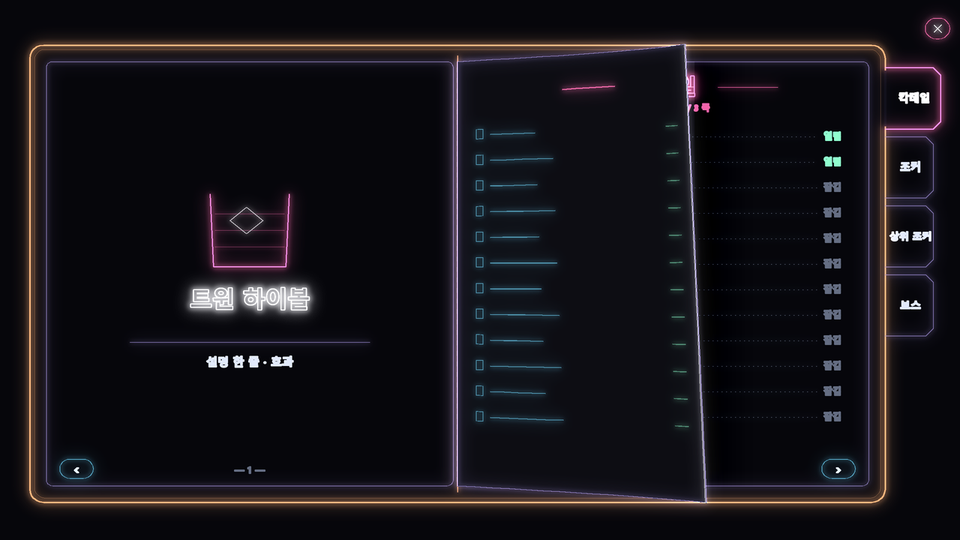
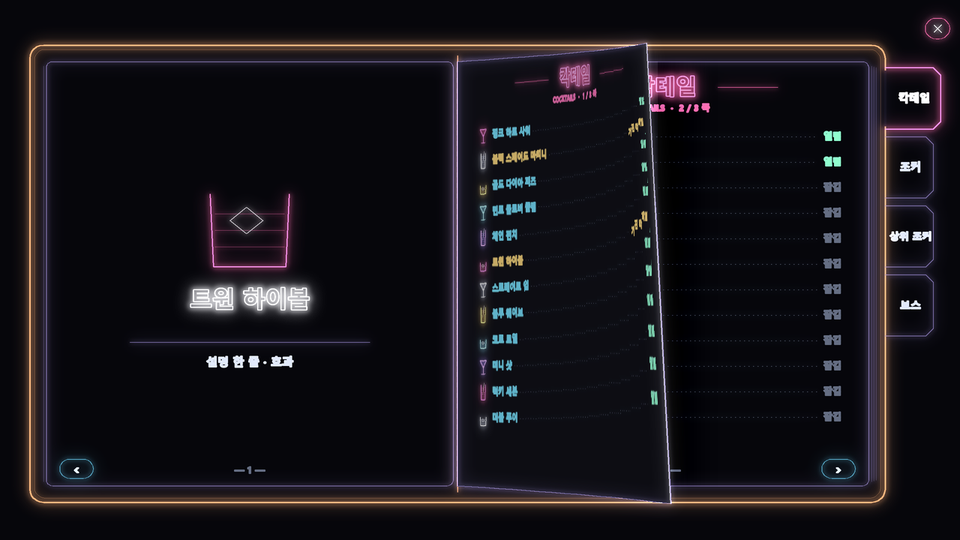
시안: 도감 책 넘기기 — 장에 쪽 내용 휘어 입힘, 모서리 들림, 쪽 두께, 책등 빛, 잔상

Changed region(s): [[0.5312, 0.0593, 0.75, 0.9481], [0.5, 0.237, 0.5938, 0.8], [0.9062, 0.1185, 0.9375, 0.8889]]

diff --git a/tools/neon/codex_flip_mock.py b/tools/neon/codex_flip_mock.py
@@ -116,28 +116,50 @@ def subdiv(pts, n=8):
     return out
 
 
-def draw_sheet(img, u):
-    P = sheet_map(u)
+def solve8(A, b):
+    """8×8 가우스 소거 (PIL PERSPECTIVE 계수 구하기)"""
+    n = 8
+    M = [row[:] + [b[i]] for i, row in enumerate(A)]
+    for c in range(n):
+        p = max(range(c, n), key=lambda r: abs(M[r][c]))
+        M[c], M[p] = M[p], M[c]
+        for r in range(n):
+            if r != c and M[c][c] != 0:
+                f = M[r][c] / M[c][c]
+                M[r] = [a - f * bb for a, bb in zip(M[r], M[c])]
+    return [M[i][n] / M[i][i] for i in range(n)]
+
+
+def persp(dst, src):
+    """출력 점 dst[i] → 입력 점 src[i] 로 가는 PIL PERSPECTIVE 계수"""
+    A, b = [], []
+    for (x, y), (X, Y) in zip(dst, src):
+        A.append([x, y, 1, 0, 0, 0, -X * x, -X * y]); b.append(X)
+        A.append([0, 0, 0, x, y, 1, -Y * x, -Y * y]); b.append(Y)
+    return solve8(A, b)
+
+
+def content_img(fn):
+    """쪽 내용만 (책 없이) 그린 그림 — 넘어가는 장에 입힌다"""
     M = Sign(0.8); M.small_glow = 0.0
+    fn[0](M, *fn[1:])
+    im = M.draw()
+    return ImageChops.subtract(im, Image.new('RGB', im.size, (6, 6, 11)))
+
+
+def draw_sheet(img, u, front, back, ghost=None):
+    """front / back: content_img (앞면 = 넘어가는 오른쪽 쪽, 뒷면 = 새 왼쪽 쪽). 장을 띠 18개로 나눠 띠마다 원근으로 입힌다 (게임: 그림 굽고 격자 꼭짓점으로 찍기)"""
+    P = sheet_map(u)
     side = 'front' if u < 0.5 else 'back'
+    src = front if side == 'front' else back
     ca = abs(math.cos(math.pi * u))
-    face = 0.35 + 0.65 * ca  # 눕힌 정도로 면 밝기
-    for pts, c, wd, b in sheet_lines(side):
-        if side == 'back': pts = [(LW - x, y) for x, y in pts]
-        M.ln([P(x, y)[0] for x, y in subdiv(pts, 4)], c, wd, b * face)
-    # 테두리 (휜 모양) + 바깥 끝 흰 빛줄
-    qs = [LW * k / 16 for k in range(17)]
+    face = 0.35 + 0.65 * ca
+    s = math.sin(math.pi * u)
+    qs = [LW * k / 18 for k in range(19)]
     ys = [TOP + (BOT - TOP) * k / 16 for k in range(17)]
     outline = [P(q, TOP)[0] for q in qs] + [P(LW, y)[0] for y in ys] + [P(q, BOT)[0] for q in reversed(qs)] + [P(0, y)[0] for y in reversed(ys)]
-    M.ln(outline, LAV, 1.2, 0.5 + 0.4 * face)
-    M.ln([P(LW - 3, y)[0] for y in ys], WHITE, 1.0, 0.25 + 0.45 * math.sin(math.pi * u))
-    # 덮기 (장 면 색: 눕힌 정도로 조금 밝게) → 그림자 → 장 그림
-    d = ImageDraw.Draw(img)
-    shade = int(8 + 7 * face)
-    # 그림자: 장 아래 드러나는 쪽, 장 쪽으로 진해짐
-    s = math.sin(math.pi * u)
-    sh = Image.new('RGB', img.size, (0, 0, 0))
-    sd = ImageDraw.Draw(sh)
+    # 그림자 (장 아래 드러나는 쪽)
+    sh = Image.new('RGB', img.size, (0, 0, 0)); sd = ImageDraw.Draw(sh)
     edge_x = P(LW, (TOP + BOT) / 2)[0][0]
     for k in range(40):
         x = edge_x + (k if u < 0.5 else -k) * 2.5
@@ -145,27 +167,65 @@ def draw_sheet(img, u):
         v = int(26 * s * (1 - k / 40) ** 2)
         sd.line([(x, TOP), (x, BOT)], fill=(v, v, v), width=3)
     img = ImageChops.subtract(img, sh)
-    d = ImageDraw.Draw(img)
-    d.polygon(outline, fill=(shade, shade, shade + 6))
-    lay = M.draw()
-    return ImageChops.add(img, ImageChops.subtract(lay, Image.new('RGB', lay.size, (6, 6, 11))))
+    # 장 면 채움
+    shade = int(8 + 7 * face)
+    ImageDraw.Draw(img).polygon(outline, fill=(shade, shade, shade + 6))
+    # 쪽 내용 입히기 (띠마다 원근 변환, 면 밝기로 어둡게)
+    lay = Image.new('RGB', img.size, (0, 0, 0))
+    for q0, q1 in zip(qs, qs[1:]):
+        d4 = [P(q0, TOP)[0], P(q1, TOP)[0], P(q1, BOT)[0], P(q0, BOT)[0]]
+        if side == 'front': s4 = [(CB.SPX + q0, TOP), (CB.SPX + q1, TOP), (CB.SPX + q1, BOT), (CB.SPX + q0, BOT)]
+        else: s4 = [(CB.SPX - q0, TOP), (CB.SPX - q1, TOP), (CB.SPX - q1, BOT), (CB.SPX - q0, BOT)]
+        x0, y0 = int(min(p[0] for p in d4)) - 1, int(min(p[1] for p in d4)) - 1
+        x1, y1 = int(max(p[0] for p in d4)) + 2, int(max(p[1] for p in d4)) + 2
+        if x1 - x0 < 2: continue
+        co = persp([(x - x0, y - y0) for x, y in d4], s4)
+        part = src.transform((x1 - x0, y1 - y0), Image.PERSPECTIVE, co, Image.BILINEAR)
+        mask = Image.new('L', part.size, 0)
+        ImageDraw.Draw(mask).polygon([(x - x0, y - y0) for x, y in d4], fill=255)
+        lay.paste(part, (x0, y0), mask)
+    lay = lay.point(lambda v: int(v * face))
+    img = ImageChops.add(img, lay)
+    # 테두리 · 접힌 끝 빛줄 · 잔상
+    M = Sign(0.8); M.small_glow = 0.0
+    M.ln(outline, LAV, 1.2, 0.5 + 0.4 * face)
+    M.ln([P(LW - 3, y)[0] for y in ys], WHITE, 1.0, 0.25 + 0.45 * s)
+    if ghost is not None:  # 빠르게 넘길 때: 바로 앞 장면의 바깥 끝을 옅게 (잔상)
+        G = sheet_map(ghost)
+        M.ln([G(LW, y)[0] for y in ys], LAV, 1.0, 0.3)
+    l2 = M.draw()
+    return ImageChops.add(img, ImageChops.subtract(l2, Image.new('RGB', l2.size, (6, 6, 11))))
+
+
+def stack_edges(M, page, pages=3):
+    """쪽 두께: 책 바깥 테 안쪽에 얇은 선. 왼쪽은 넘긴 쪽 수만큼, 오른쪽은 남은 쪽만큼"""
+    nl, nr = 1 + page, 1 + (pages - 1 - page)
+    for k in range(nl): M.ln([(LX - 4 - k * 3, TOP + 6 + k), (LX - 4 - k * 3, BOT - 6 - k)], LAV, 0.8, 0.35)
+    for k in range(nr): M.ln([(RX + LW + 4 + k * 3, TOP + 6 + k), (RX + LW + 4 + k * 3, BOT - 6 - k)], LAV, 0.8, 0.35)
 
 
 # ---------------------------------------------------------------- 한 장면
-def render(tab, left, right, sheets=(), text=1.0, press=0.0, ext=None):
-    """text: 쪽 글자 보임 정도 (넘어가는 동안 0, 다 넘어가면 0 → 1)"""
-    def layer(with_text):
-        M = Sign(0.8); M.small_glow = 0.0
-        CB.book(M, active=tab, ext=ext)
-        if with_text:
-            left[0](M, *left[1:])
-            right[0](M, *right[1:])
-        CB.footer(M, press)
-        return M.draw()
-    img = layer(True) if text >= 1 else Image.blend(layer(False), layer(True), text) if text > 0 else layer(False)
-    for u in sheets:
-        if 0 < u < 1: img = draw_sheet(img, u)
+def render(tab, left, right, sheets=(), press=0.0, ext=None, page=0, spine=0.0, corner=0.0, cont=None):
+    """sheets: [(u, 앞면 그림, 뒷면 그림, 잔상 u)], spine: 책등 빛 (내려앉을 때 통), corner: › 위 마우스 = 모서리 살짝 들림"""
+    M = Sign(0.8); M.small_glow = 0.0
+    CB.book(M, active=tab, ext=ext)
+    stack_edges(M, page)
+    left[0](M, *left[1:])
+    right[0](M, *right[1:])
+    CB.footer(M, press)
+    if spine > 0: M.ln([(CB.SPX, TOP), (CB.SPX, BOT)], WHITE, 1.4, spine)
+    img = M.draw()
+    if corner > 0 and cont is not None: img = draw_sheet(img, corner, cont, cont)
+    for u, fr, bk, gh in sheets:
+        if 0 < u < 1: img = draw_sheet(img, u, fr, bk, gh)
     return img.resize((960, 540), Image.LANCZOS)
+
+
+def ease_land(u):
+    """끝에서 아주 조금 넘었다 돌아옴 (내려앉는 느낌)"""
+    u = min(1.0, max(0.0, u))
+    e = ease(u)
+    return e + 0.03 * math.sin(math.pi * min(1.0, u * 1.25)) * (u > 0.8)
 
 
 def main(out):
@@ -174,29 +234,35 @@ def main(out):
     L1, R1 = (detail_cocktail, 5), (list_cocktail, 0)
     L2, R2 = (detail_cocktail, 12), (list_cocktail, 1)
     LJ, RJ = (detail_joker, 1), (list_joker,)
-    F += [render(0, L1, R1)] * 8
-    F += [render(0, L1, R1, press=p) for p in (0.5, 1.0)]  # 1 › 눌림
+    cR1, cL2, cR2, cL1 = content_img(R1), content_img(L2), content_img(R2), content_img(L1)
+    F += [render(0, L1, R1)] * 6
+    F += [render(0, L1, R1, corner=c, cont=cR1) for c in (0.015, 0.03, 0.04, 0.04)]  # 마우스를 › 에: 모서리가 살짝 들림
+    F += [render(0, L1, R1, press=p, corner=0.04, cont=cR1) for p in (0.5, 1.0)]  # › 눌림
     n = int(0.5 * FPS)
-    for f in range(n):  # 2 ~ 5 한 장 넘어감 (아래로 다음 쪽이 드러남)
-        F.append(render(0, L1, R2, sheets=[ease((f + 1) / n)], press=max(0.0, 1 - f / 3)))
-    a, b = render(0, L1, R2), render(0, L2, R2)
-    F += [Image.blend(a, b, (k + 1) / 4) for k in range(4)]  # 6 왼쪽 상세가 겹쳐 바뀜
-    F += [b] * 12
-    # 탭 바꾸기: 조커 탭이 밀려 나오고 세 장이 겹쳐 넘어감
+    for f in range(n):  # 한 장이 휘며 넘어감 (앞면 = 1쪽 목록, 뒷면 = 새 왼쪽 상세)
+        u = 0.04 + 0.96 * ease((f + 1) / n)
+        F.append(render(0, L1, R2, sheets=[(min(u, 0.999), cR1, cL2, None)], press=max(0.0, 1 - f / 3), page=0))
+    F += [render(0, L2, R2, page=1, spine=s) for s in (0.7, 0.4, 0.15)]  # 내려앉음: 책등이 한 번 빛남
+    F += [render(0, L2, R2, page=1)] * 12
+    # 탭 바꾸기: 조커 탭이 밀려 나오고 세 장이 겹쳐 넘어감 (빠른 장엔 잔상)
     m = int(0.32 * FPS)
-    tot = m + 2 * int(0.1 * FPS) + 1
+    gap = int(0.1 * FPS)
+    tot = m + 2 * gap + 1
+    prev = [0.0, 0.0, 0.0]
     for f in range(tot):
         e = ease(min(1.0, (f + 1) / 5))
         ext = [10 * (1 - e), 10 * e, 0, 0]
-        us = [ease((f - k * int(0.1 * FPS) + 1) / m) for k in range(3)]
-        F.append(render(1, L2, RJ, sheets=us, ext=ext))
-    a, b = render(1, L2, RJ, ext=[0, 10, 0, 0]), render(1, LJ, RJ)
-    F += [Image.blend(a, b, (k + 1) / 4) for k in range(4)]
-    F += [b] * 18
-    pal = [f.convert('P', palette=Image.ADAPTIVE, colors=200) for f in F]
+        us = [ease((f - k * gap + 1) / m) for k in range(3)]
+        sh = [(us[k], cR2, cL2, prev[k] if 0 < prev[k] < 1 else None) for k in range(3)]
+        prev = us
+        F.append(render(1, L2, RJ, sheets=sh, ext=ext, page=1))
+    F += [render(1, LJ, RJ, page=0, spine=s) for s in (0.7, 0.4, 0.15)]
+    F += [render(1, LJ, RJ, page=0)] * 18
+    pal = [f.convert('P', palette=Image.ADAPTIVE, colors=220) for f in F]
     pal[0].save(os.path.join(out, 'codex_flip.gif'), save_all=True, append_images=pal[1:], duration=int(1000 / FPS), loop=0)
-    F[10 + n // 2].save(os.path.join(out, 'codex_flip_mid.png'))
-    F[10 + n // 4].save(os.path.join(out, 'codex_flip_early.png'))
+    F[12 + n // 2 - 1].save(os.path.join(out, 'codex_flip_mid.png'))
+    F[12 + n // 4].save(os.path.join(out, 'codex_flip_early.png'))
+    F[12 + n * 3 // 4].save(os.path.join(out, 'codex_flip_late.png'))
     print('ok', len(F))
 
 
